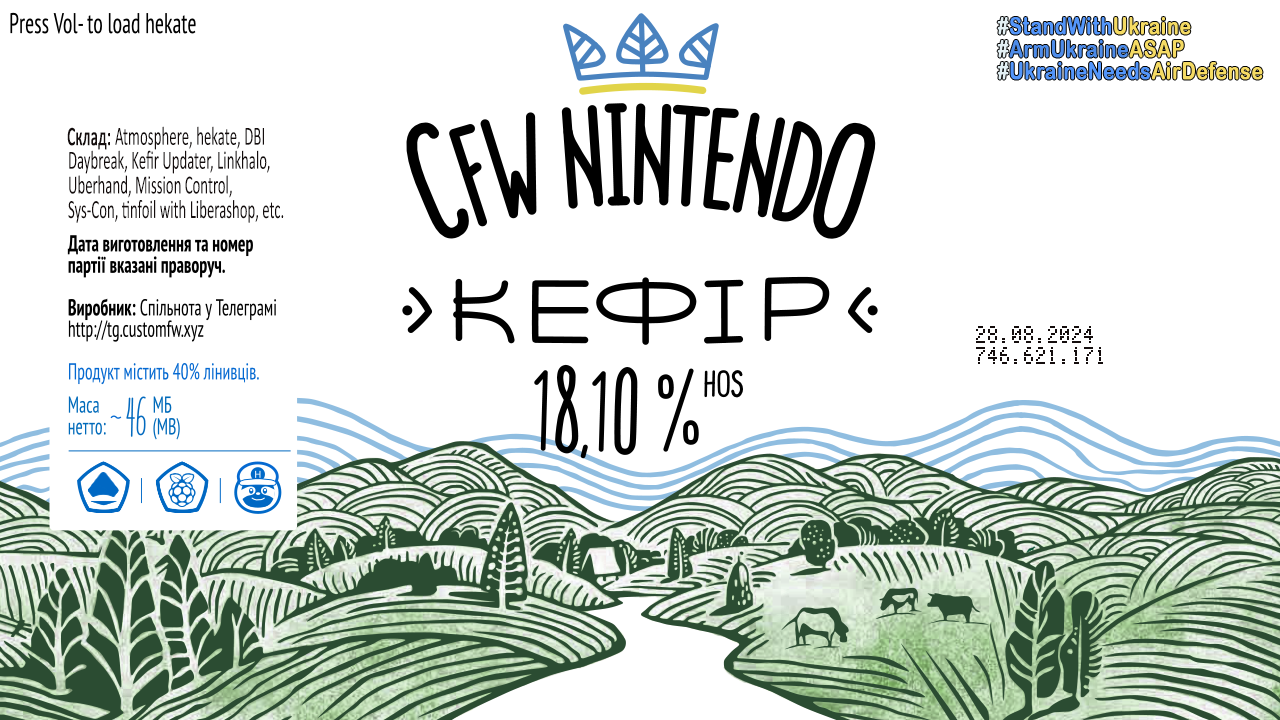
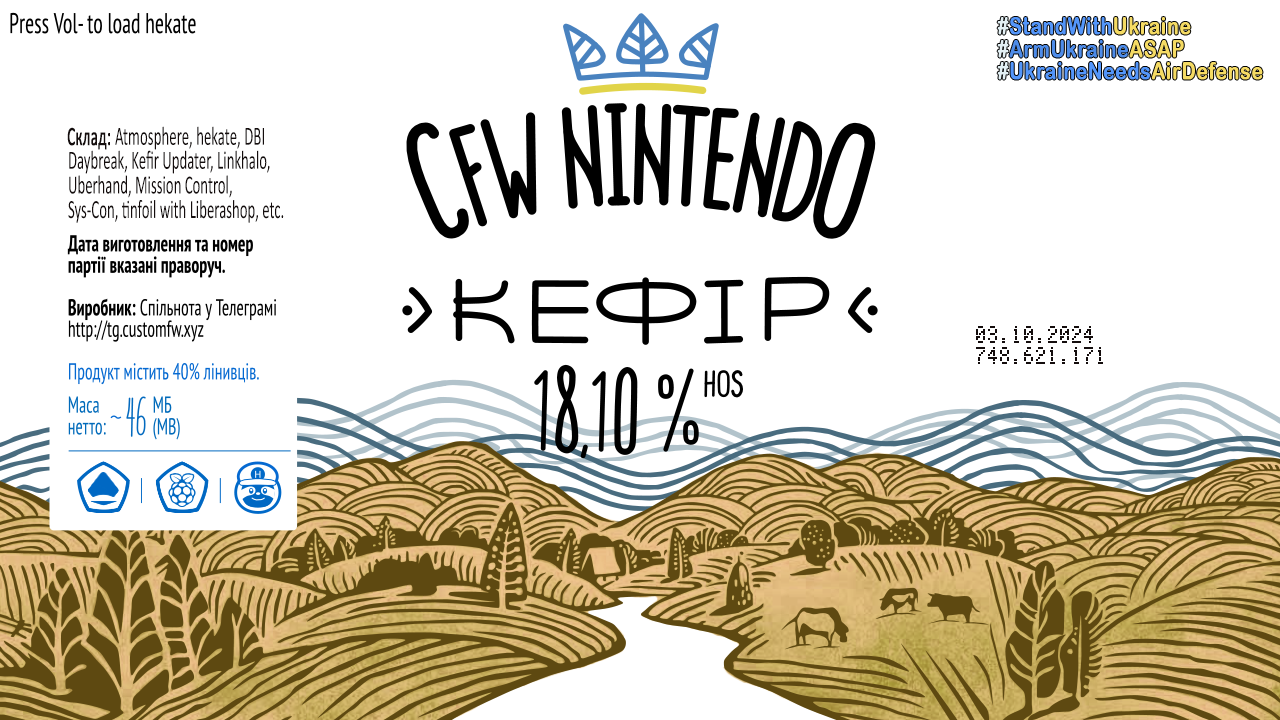
kefir748

diff --git a/kefir.html b/kefir.html
@@ -349,7 +349,7 @@
 <nav class="toc">
     <header><h4 class="nav__title"><i class="fa fa-file-text"></i> Разделы</h4></header>
 <ul class="toc__menu" id="markdown-toc">
-  <li><a href="#kefir-746" id="markdown-toc-kefir-746">KEFIR 746</a>    <ul>
+  <li><a href="#kefir-748" id="markdown-toc-kefir-748">KEFIR 748</a>    <ul>
       <li><a href="#что-такое-кефир" id="markdown-toc-что-такое-кефир">Что такое кефир</a></li>
       <li><a href="#инструкция-по-установкеобновлению-kefir" id="markdown-toc-инструкция-по-установкеобновлению-kefir">Инструкция по установке/обновлению kefir</a></li>
     </ul>
@@ -391,7 +391,7 @@
 
 <hr />
 
-<h2 id="kefir-746"><a href="https://github.com/rashevskyv/kefir/releases" target="_blank">KEFIR 746</a></h2>
+<h2 id="kefir-748"><a href="https://github.com/rashevskyv/kefir/releases" target="_blank">KEFIR 748</a></h2>
 
 <p class="text-center"><img src="/images/kefir.png" alt="kefir" width="70%" /></p>
 
@@ -705,7 +705,15 @@ hekate
 <h3 id="изменения-от-прошлой-версии">Изменения от прошлой версии</h3>
 
 <h4 id="ukr"><strong>UKR</strong>:</h4>
-<p><strong>Тепер точно повна підтримка 18.1.0</strong></p>
+<p><strong>Повна підтримка 18.1.0</strong></p>
+
+<p><strong>748</strong>:</p>
+<ul>
+  <li>[<strong>Змінено</strong>] [Overlay] - додана можливість закачки російської версії DBI як на заміну англійської, так і окремо. Додано керування оборотами кулера (Packages &gt; Settings)</li>
+  <li>[<strong>Оновлено</strong>] <a href="https://github.com/o0Zz/sys-con/releases">sys-con 1.4.1</a></li>
+  <li>[<strong>Оновлено</strong>] <a href="https://github.com/efosamark/Uberhand-Overlay/releases">Uberhand-Overlay 2.3.1</a></li>
+  <li>[<strong>Оновлено</strong>] <a href="https://github.com/suchmememanyskill/TegraExplorer/releases/tag/4.2.0">TegraExplorer</a> - виправлено помилки, через які не працювали деякі скрипти</li>
+</ul>
 
 <p><strong>746</strong>:</p>
 <ul>
@@ -772,7 +780,15 @@ hekate
 <hr />
 
 <h4 id="rus"><strong>RUS</strong>:</h4>
-<p><strong>Теперь точно полная поддержка 18.1.0</strong></p>
+<p><strong>Полная поддержка 18.1.0</strong></p>
+
+<p><strong>748</strong>:</p>
+<ul>
+  <li>[<strong>Изменено</strong>] [Overlay] - добавлена возможность загрузки русской версии DBI как на замену английской, так и отдельно. Добавлено управление оборотами кулера (Packages &gt; Settings)</li>
+  <li>[<strong>Обновлено</strong>] <a href="https://github.com/o0Zz/sys-con/releases">sys-con 1.4.1</a></li>
+  <li>[<strong>Обновлено</strong>] <a href="https://github.com/efosamark/Uberhand-Overlay/releases">Uberhand-Overlay 2.3.1</a></li>
+  <li>[<strong>Обновлено</strong>] <a href="https://github.com/suchmememanyskill/TegraExplorer/releases/tag/4.2.0">TegraExplorer</a> - исправлены ошибки, из-за которых не работали некоторые скрипты</li>
+</ul>
 
 <p><strong>746</strong>:</p>
 <ul>
@@ -835,7 +851,15 @@ hekate
 <hr />
 
 <h4 id="eng"><strong>ENG</strong>:</h4>
-<p><strong>Now definitely full support for 18.1.0</strong></p>
+<p><strong>Full support 18.1.0</strong></p>
+
+<p><strong>748</strong>:</p>
+<ul>
+  <li>[<strong>Changed</strong>] [Overlay] - added the ability to download the Russian version of DBI both as a replacement for the English version and separately. Added fan speed control (Packages &gt; Settings)</li>
+  <li>[<strong>Updated</strong>] <a href="https://github.com/o0Zz/sys-con/releases">sys-con 1.4.1</a></li>
+  <li>[<strong>Updated</strong>] <a href="https://github.com/efosamark/Uberhand-Overlay/releases">Uberhand-Overlay 2.3.1</a></li>
+  <li>[<strong>Updated</strong>] <a href="https://github.com/suchmememanyskill/TegraExplorer/releases/tag/4.2.0">TegraExplorer</a> - fixed bugs that caused some scripts not to work</li>
+</ul>
 
 <p><strong>746</strong>:</p>
 <ul>
